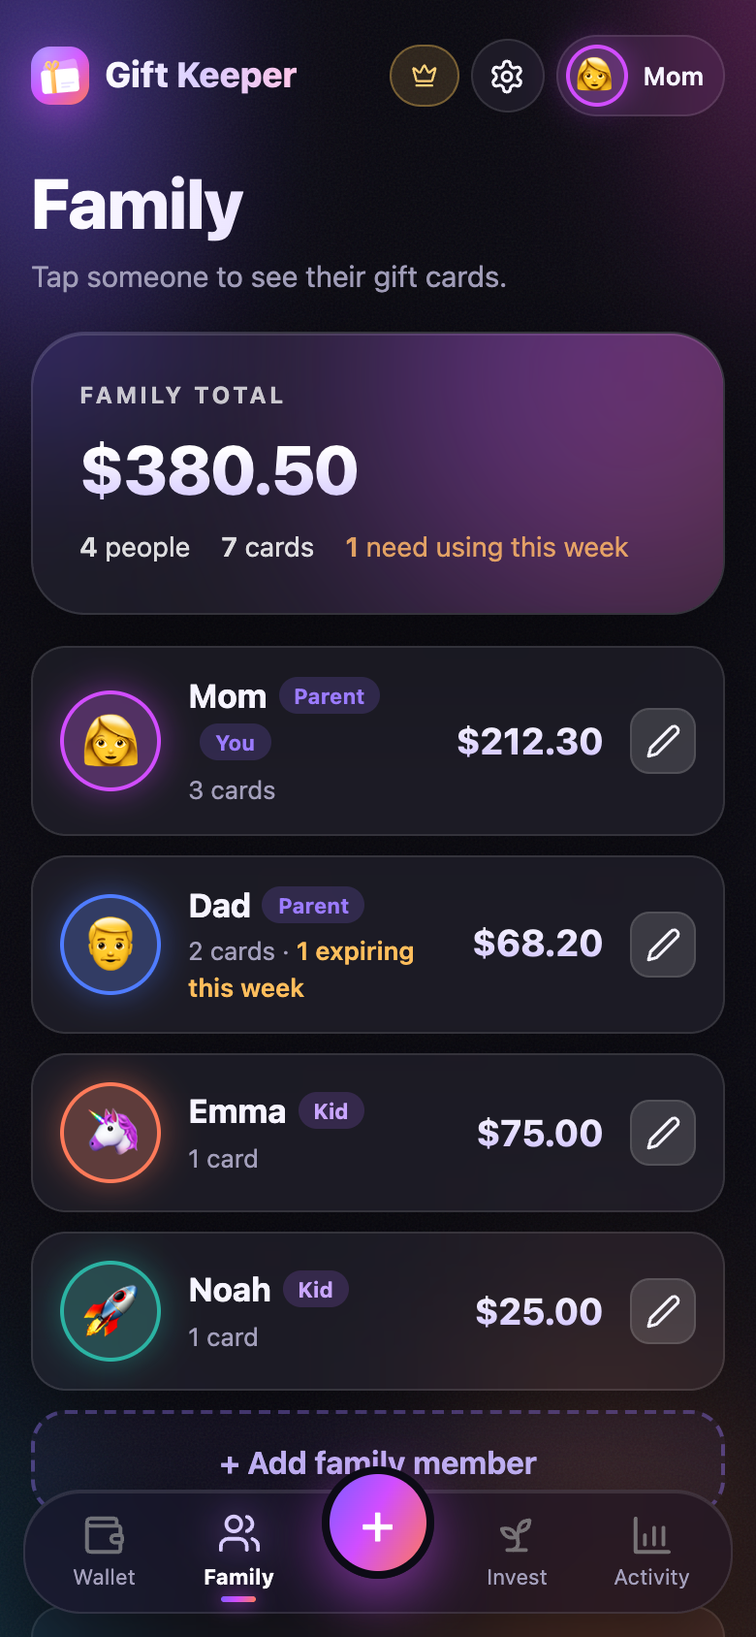
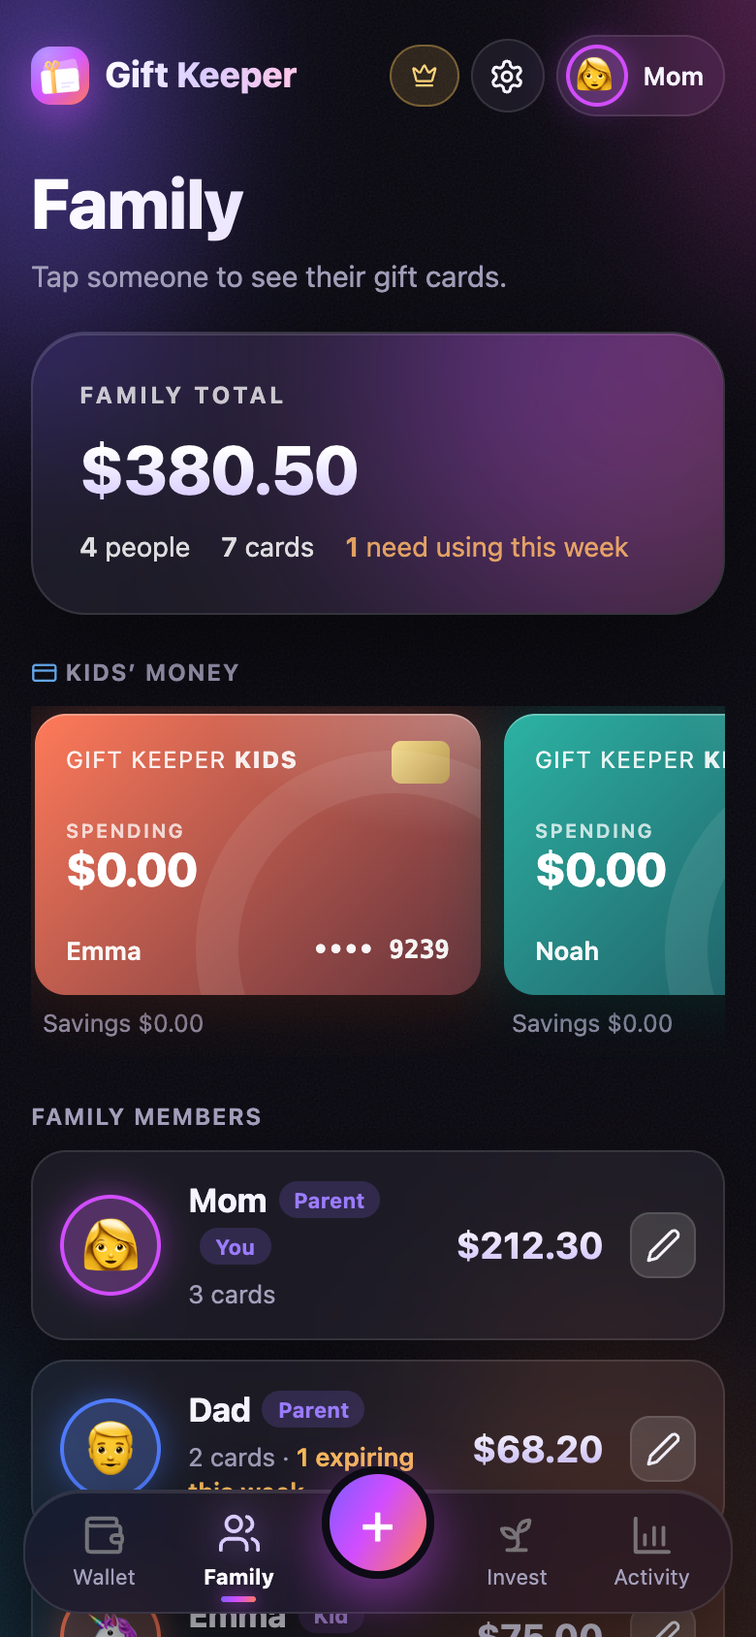
v0.14: Kids' money — Gift Keeper Kids card, spending rules, freeze, allowance, chores, parent-paid interest

diff --git a/app.html b/app.html
@@ -963,6 +963,52 @@
   .calc-total { font: 800 34px var(--round); letter-spacing: -1px; margin: 2px 0 6px; }
   body.privacy #pfTotal, body.privacy .stock-row .px b, body.privacy #pfCash, body.privacy #pfGain b, body.privacy .calc-total { filter: blur(9px); }
 
+  /* Kids' money */
+  .kcards { display: flex; gap: 12px; overflow-x: auto; padding: 4px 2px 10px; scrollbar-width: none; }
+  .kcard-btn { flex: none; width: 230px; background: none; border: 0; padding: 0; cursor: pointer; color: inherit; text-align: left; }
+  .kc-under { display: block; font-size: 12.5px; color: var(--muted); margin: 6px 4px 0; }
+  .kcard { position: relative; aspect-ratio: 1.586; border-radius: 16px; padding: 14px 16px; overflow: hidden; color: #fff;
+    display: flex; flex-direction: column; justify-content: space-between;
+    background: radial-gradient(120% 90% at 100% 0%, rgba(255,255,255,.28), transparent 50%),
+      linear-gradient(135deg, var(--c), color-mix(in srgb, var(--c) 35%, #120c2a));
+    box-shadow: 0 14px 30px rgba(0,0,0,.45), 0 0 34px color-mix(in srgb, var(--c) 35%, transparent), inset 0 1px 0 rgba(255,255,255,.3); }
+  .kcard::after { content: ""; position: absolute; width: 70%; aspect-ratio: 1; right: -25%; bottom: -55%; border-radius: 50%;
+    border: 22px solid rgba(255,255,255,.08); pointer-events: none; }
+  .kc-top { display: flex; justify-content: space-between; align-items: center; }
+  .kc-brand { font-size: 12px; letter-spacing: .06em; text-transform: uppercase; opacity: .9; }
+  .kc-brand b { font-weight: 800; }
+  .kc-chip { width: 30px; height: 22px; border-radius: 5px; background: linear-gradient(135deg, #f3dc8f, #b8954a); }
+  .kc-bal { font: 800 24px var(--round); letter-spacing: -.5px; }
+  .kc-bal small { display: block; font: 600 10px var(--round); letter-spacing: .1em; text-transform: uppercase; opacity: .75; }
+  .kc-bottom { display: flex; justify-content: space-between; font-size: 13px; font-weight: 600; opacity: .95; }
+  .kcard.big { max-width: 360px; margin: 14px auto 4px; padding: 20px; border-radius: 20px; }
+  .kcard.big .kc-bal { font-size: 32px; }
+  .kcard.frozen { filter: saturate(.35); background-image: repeating-linear-gradient(135deg, rgba(200,232,255,.12) 0 10px, transparent 10px 20px), linear-gradient(135deg, var(--c), color-mix(in srgb, var(--c) 35%, #120c2a)); }
+  .kc-frozen { position: absolute; top: 12px; right: 12px; display: inline-flex; align-items: center; gap: 6px; padding: 6px 12px; border-radius: 99px;
+    font: 800 13px var(--round); background: rgba(200,232,255,.9); color: #0b3a5c; z-index: 2; box-shadow: 0 4px 14px rgba(0,0,0,.3); }
+  .kcard.frozen .kc-chip { visibility: hidden; }
+  .kc-frozen .i { width: 15px; height: 15px; }
+  #kidTabs { margin: 4px 0 6px; }
+  .kb-bals { display: grid; grid-template-columns: 1fr 1fr; gap: 10px; margin: 14px 0; }
+  .kb-bals div { border: 1px solid var(--line); background: var(--surface); border-radius: 16px; padding: 12px 14px; }
+  .kb-bals small { display: block; font-size: 12px; color: var(--muted); }
+  .kb-bals b { font: 800 22px var(--round); }
+  .kb-row { display: flex; gap: 8px; margin-top: 10px; align-items: center; }
+  .kb-row input, .kb-row select { flex: 1; min-width: 0; margin: 0; }
+  .kb-row .btn { flex: none; white-space: nowrap; }
+  .kb-small { width: 90px; flex: none; margin: 0; }
+  .kb-rules .setting select { width: auto; margin: 0; }
+  .kb-tx, .chore { display: flex; align-items: center; gap: 10px; padding: 10px 0; border-bottom: 1px solid var(--line); }
+  .kb-tx:last-child, .chore:last-child { border-bottom: 0; }
+  .kb-tx .info, .chore .info { flex: 1; min-width: 0; }
+  .kb-tx .t, .chore .t { font-weight: 650; }
+  .kb-tx .s, .chore .s { font-size: 12.5px; color: var(--muted); }
+  .kb-tx.declined .t { text-decoration: line-through; opacity: .7; }
+  .kb-tx.declined .s { color: #ff8a9a; }
+  .chore.paid .t { opacity: .6; }
+  .chore .del { border: 0; background: none; color: var(--muted); cursor: pointer; display: grid; place-items: center; }
+  body.privacy .kc-bal, body.privacy .kb-bals b, body.privacy .kc-under { filter: blur(9px); }
+
   /* Fixes kept from the redesign */
   .mini { white-space: nowrap; }
   .pm-buttons .btn:disabled { opacity: .55; }
@@ -1058,6 +1104,8 @@
       <div class="amount" id="famTotal">$0.00</div>
       <div class="stats" id="famStats"></div>
     </section>
+    <div id="kidMoney"></div>
+    <div class="section-title">Family members</div>
     <div id="memberList"></div>
     <button class="add-row" id="addMemberBtn">+ Add family member</button>
     <div id="givenSection">
@@ -1173,7 +1221,7 @@
       <div class="list-panel"><button class="setting danger" id="wipeBtn"><svg class="i i-trash" aria-hidden="true"><use href="#i-trash"/></svg>Delete all data</button></div>
     </div>
     <p class="page-sub" style="text-align:center;margin-top:26px;font-size:13px">
-      Gift Keeper v0.13 · Everything is saved only on this device.
+      Gift Keeper v0.14 · Everything is saved only on this device.
     </p>
   </section>
 </div>
@@ -1382,6 +1430,7 @@
       <tr><td>Hide amounts</td><td class="no">—</td><td><svg class="i i-check" aria-hidden="true"><use href="#i-check"/></svg></td><td><svg class="i i-check" aria-hidden="true"><use href="#i-check"/></svg></td></tr>
       <tr><td>Monthly report</td><td class="no">—</td><td><svg class="i i-check" aria-hidden="true"><use href="#i-check"/></svg></td><td><svg class="i i-check" aria-hidden="true"><use href="#i-check"/></svg></td></tr>
       <tr><td>Kids’ savings goals</td><td class="no">—</td><td><svg class="i i-check" aria-hidden="true"><use href="#i-check"/></svg></td><td><svg class="i i-check" aria-hidden="true"><use href="#i-check"/></svg></td></tr>
+      <tr><td>Kids’ card, allowance &amp; chores</td><td class="no">—</td><td><svg class="i i-check" aria-hidden="true"><use href="#i-check"/></svg></td><td><svg class="i i-check" aria-hidden="true"><use href="#i-check"/></svg></td></tr>
       <tr><td>Gift tracker</td><td class="no">—</td><td><svg class="i i-check" aria-hidden="true"><use href="#i-check"/></svg></td><td><svg class="i i-check" aria-hidden="true"><use href="#i-check"/></svg></td></tr>
       <tr class="ultra-start"><td>App lock</td><td class="no">—</td><td class="no">—</td><td><svg class="i i-check" aria-hidden="true"><use href="#i-check"/></svg></td></tr>
       <tr><td>Year in review</td><td class="no">—</td><td class="no">—</td><td><svg class="i i-check" aria-hidden="true"><use href="#i-check"/></svg></td></tr>
@@ -1421,6 +1470,22 @@
     <button class="wrap-close" id="wrapClose" aria-label="Close"><svg class="i i-x" aria-hidden="true"><use href="#i-x"/></svg></button>
     <div id="wrapSlide"></div>
     <div class="wrap-hint">Tap to continue</div>
+  </div>
+</div>
+
+<!-- Kids' money: card, chores, rules -->
+<div class="overlay" id="kidOverlay">
+  <div class="sheet">
+    <div class="sheet-head">
+      <h2 id="kidName">Money</h2>
+      <button type="button" class="x" data-close aria-label="Close"><svg class="i i-x" aria-hidden="true"><use href="#i-x"/></svg></button>
+    </div>
+    <div class="seg" id="kidTabs">
+      <button type="button" data-tab="card">Card</button>
+      <button type="button" data-tab="chores">Chores</button>
+      <button type="button" data-tab="rules">Rules</button>
+    </div>
+    <div id="kidBody"></div>
   </div>
 </div>
 
@@ -2797,6 +2862,7 @@ function renderFamily() {
     ${soon ? `<span class="warn"><b>${soon}</b> need using this week</span>` : ''}`;
 
   renderGiven();
+  renderKidMoney();
   $('memberList').innerHTML = ordered.map(m => {
     const own = cards.filter(c => c.owner === m.id);
     const urgent = own.filter(isUrgent).length;
@@ -3313,6 +3379,218 @@ function exportCsv() {
   toast('Spreadsheet downloaded');
 }
 
+// ---------- Kids' money: a family bank with a kids' card ----------
+// Parents hold the real money; Gift Keeper keeps the books. Each kid has spending and savings,
+// a card parents can freeze and set rules on, a weekly allowance, chores that pay, and
+// interest parents pay on savings every month.
+const KIDBANK_KEY = 'giftKeeper.kidbank.v1';
+const WEEKDAYS = ['Sunday', 'Monday', 'Tuesday', 'Wednesday', 'Thursday', 'Friday', 'Saturday'];
+const SPEND_CATS = ['Shopping', 'Food & Drink', 'Gaming', 'Entertainment', 'Online'];
+
+let kidbank = {};
+try { kidbank = JSON.parse(localStorage.getItem(KIDBANK_KEY)) || {}; } catch {}
+const saveKidbank = () => localStorage.setItem(KIDBANK_KEY, JSON.stringify(kidbank));
+const kb = id => (kidbank[id] ??= {
+  spending: 0, savings: 0, frozen: false, limit: 0, blocked: [],
+  allowance: { amount: 0, day: 5, since: today() }, interest: 0, interestMonth: today().slice(0, 7),
+  chores: [], tx: [], last4: String(1000 + Math.floor(seeded(id) * 9000)),
+});
+const round2 = n => Math.round(n * 100) / 100;
+function kbTx(a, desc, amount, type, extra = {}) {
+  a.tx.push({ id: crypto.randomUUID(), date: today(), desc, amount: round2(amount), type, by: family.current, ...extra });
+}
+const addDays = (date, n) => { const d = new Date(date + 'T00:00'); d.setDate(d.getDate() + n); return d.toISOString().slice(0, 10); };
+
+// Pay any allowance and savings interest that came due since the app was last opened
+function processKidbank() {
+  let changed = false;
+  Object.entries(kidbank).forEach(([id, a]) => {
+    if (!member(id)) return;
+    const al = a.allowance;
+    if (al.amount > 0) {
+      // first payday strictly after the day it was set up
+      let next = addDays(al.since, 1);
+      while (new Date(next + 'T00:00').getDay() !== al.day) next = addDays(next, 1);
+      while (next <= today()) {
+        a.spending = round2(a.spending + al.amount);
+        a.tx.push({ id: crypto.randomUUID(), date: next, desc: 'Weekly allowance', amount: al.amount, type: 'allowance' });
+        al.since = next; next = addDays(next, 7); changed = true;
+      }
+    }
+    while (a.interestMonth < today().slice(0, 7)) {
+      const [y, m] = a.interestMonth.split('-').map(Number);
+      a.interestMonth = m === 12 ? `${y + 1}-01` : `${y}-${String(m + 1).padStart(2, '0')}`;
+      const earned = round2(a.savings * a.interest / 100);
+      if (earned > 0) {
+        a.savings = round2(a.savings + earned);
+        a.tx.push({ id: crypto.randomUUID(), date: a.interestMonth + '-01', desc: `Interest from parents (${a.interest}%)`, amount: earned, type: 'interest' });
+      }
+      changed = true;
+    }
+  });
+  if (changed) saveKidbank();
+}
+
+function kidCard(m, a, big = false) {
+  return `<div class="kcard ${big ? 'big' : ''} ${a.frozen ? 'frozen' : ''}" style="--c:${m.color || '#7c5cff'}">
+    <div class="kc-top"><span class="kc-brand">Gift Keeper <b>Kids</b></span><span class="kc-chip"></span></div>
+    <div class="kc-bal"><small>Spending</small>${money(a.spending)}</div>
+    <div class="kc-bottom"><span>${esc(m.name)}</span><span class="mono">•••• ${a.last4}</span></div>
+    ${a.frozen ? `<div class="kc-frozen">${ic('snow')} Frozen</div>` : ''}
+  </div>`;
+}
+
+function renderKidMoney() {
+  processKidbank();
+  const kids = isParent() ? family.members.filter(m => m.role === 'kid') : [me()];
+  if (!kids.length) {
+    $('kidMoney').innerHTML = isParent() ? `<div class="section-title">${ic('card')} Kids’ money</div>
+      <div class="list-panel"><div class="empty-state" style="padding:18px 6px">Add a kid to the family to give them a Gift Keeper Kids card, allowance and chores.</div></div>` : '';
+    return;
+  }
+  const todo = kids.reduce((n, m) => n + kb(m.id).chores.filter(c => c.status === 'done').length, 0);
+  $('kidMoney').innerHTML = `
+    <div class="section-title">${ic('card')} ${isParent() ? 'Kids’ money' : 'My money'}${isParent() && todo ? ` <span class="pill">${todo} chore${todo === 1 ? '' : 's'} to approve</span>` : ''}</div>
+    <div class="kcards">${kids.map(m => `<button class="kcard-btn" data-kid="${m.id}">${kidCard(m, kb(m.id))}
+      <span class="kc-under">Savings ${money(kb(m.id).savings)}</span></button>`).join('')}</div>`;
+}
+$('kidMoney').onclick = e => {
+  const b = e.target.closest('[data-kid]');
+  if (!b) return;
+  if (!isPremium()) return openPremium('kidcard');
+  openKid(b.dataset.kid);
+};
+
+// ----- the kid's money sheet -----
+let kidId = null, kidTab = 'card';
+function openKid(id) { kidId = id; kidTab = 'card'; renderKid(); open('kidOverlay'); }
+function renderKid() {
+  const m = member(kidId), a = kb(kidId), parent = isParent();
+  if (!m) return;
+  document.querySelectorAll('#kidTabs button').forEach(b => b.classList.toggle('on', b.dataset.tab === kidTab));
+  $('kidName').textContent = m.id === family.current ? 'My money' : `${possessive(m.name)} money`;
+  let html = '';
+  if (kidTab === 'card') {
+    html = `${kidCard(m, a, true)}
+      <div class="kb-bals">
+        <div><small>Spending</small><b>${money(a.spending)}</b></div>
+        <div><small>Savings${a.interest ? ` · earns ${a.interest}%/mo` : ''}</small><b>${money(a.savings)}</b></div>
+      </div>
+      ${parent ? `<div class="kb-row">
+          <input id="kbSend" type="number" min="0" step="1" inputmode="decimal" placeholder="$ amount">
+          <button class="btn primary" data-act="send">${ic('gift')} Send money</button>
+        </div>` : ''}
+      <div class="kb-row">
+        <input id="kbMove" type="number" min="0" step="1" inputmode="decimal" placeholder="$ amount">
+        <button class="btn" data-act="save">To savings</button>
+        <button class="btn" data-act="unsave">To spending</button>
+      </div>
+      <div class="section-title">Pay with the card</div>
+      <div class="kb-row">
+        <input id="kbWhere" placeholder="Where? e.g. Target" style="flex:2">
+        <input id="kbAmt" type="number" min="0" step="0.01" inputmode="decimal" placeholder="$">
+      </div>
+      <div class="kb-row">
+        <select id="kbCat">${SPEND_CATS.map(c => `<option>${c}</option>`).join('')}</select>
+        <button class="btn primary" data-act="pay">${ic('card')} Pay</button>
+      </div>
+      <div class="section-title">Activity</div>
+      <div class="list-panel">${a.tx.length ? [...a.tx].reverse().slice(0, 25).map(t => `
+        <div class="kb-tx ${t.type}"><span class="info"><div class="t">${esc(t.desc)}</div>
+          <div class="s">${dayLabel(t.date)}${t.type === 'declined' ? ` · declined: ${esc(t.reason)}` : ''}</div></span>
+          <span class="amt ${t.type === 'declined' || t.type === 'transfer' ? '' : t.amount >= 0 ? 'pos' : 'neg'}">${t.type === 'transfer' ? money(t.moved) : t.type === 'declined' ? money(Math.abs(t.amount)) : (t.amount >= 0 ? '+' : '−') + money(Math.abs(t.amount))}</span></div>`).join('')
+        : '<div class="empty-state" style="padding:18px 6px">No activity yet.</div>'}</div>`;
+  } else if (kidTab === 'chores') {
+    html = `${parent ? `<div class="kb-row"><input id="choreName" placeholder="New chore, e.g. Empty the dishwasher" style="flex:2">
+        <input id="choreReward" type="number" min="0" step="0.5" inputmode="decimal" placeholder="$"></div>
+      <button class="btn primary" data-act="addChore" style="width:100%">${ic('plus')} Add chore</button>` : ''}
+      <div class="list-panel" style="margin-top:12px">${a.chores.length ? a.chores.map(c => `
+        <div class="chore ${c.status}">
+          <span class="info"><div class="t">${esc(c.name)}</div><div class="s">${money(c.reward)} · ${
+            c.status === 'todo' ? 'To do' : c.status === 'done' ? 'Done — waiting for a parent' : 'Paid'}</div></span>
+          ${c.status === 'todo' ? `<button class="mini" data-act="choreDone" data-id="${c.id}">${ic('check')} Done</button>` : ''}
+          ${c.status === 'done' && parent ? `<button class="mini ok" data-act="chorePay" data-id="${c.id}">Approve &amp; pay</button>` : ''}
+          ${c.status === 'paid' ? `<button class="mini" data-act="choreAgain" data-id="${c.id}">Repeat</button>` : ''}
+          ${parent ? `<button class="del" data-act="choreDel" data-id="${c.id}" aria-label="Delete">${ic('x')}</button>` : ''}
+        </div>`).join('') : `<div class="empty-state" style="padding:18px 6px">${parent ? 'Add chores your kid can do to earn money.' : 'No chores yet — ask a parent!'}</div>`}</div>`;
+  } else {
+    const al = a.allowance;
+    html = !parent ? `<div class="list-panel kb-rules">
+        <div class="setting static"><span>${ic('calendar')}Allowance<span class="sub">${al.amount ? `${money(al.amount)} every ${WEEKDAYS[al.day]}` : 'No allowance set'}</span></span></div>
+        <div class="setting static"><span>${ic('trend')}Savings interest<span class="sub">${a.interest ? `${a.interest}% a month, paid by your parents` : 'Not set'}</span></span></div>
+        <div class="setting static"><span>${ic('shield')}Spending limit<span class="sub">${a.limit ? `Up to ${money(a.limit)} per purchase` : 'No limit'}</span></span></div>
+      </div>` : `
+      <div class="list-panel kb-rules">
+        <div class="setting static"><span>${ic('snow')}Freeze card<span class="sub">${a.frozen ? 'Frozen — every purchase is declined' : 'Stop all purchases right away'}</span></span>
+          <button class="mini ${a.frozen ? 'ok' : ''}" data-act="freeze">${a.frozen ? 'Unfreeze' : 'Freeze'}</button></div>
+        <div class="setting static"><span>${ic('shield')}Limit per purchase<span class="sub">0 = no limit</span></span>
+          <input id="kbLimit" class="kb-small" type="number" min="0" step="1" value="${a.limit || ''}" placeholder="$"></div>
+        <div class="setting static"><span>${ic('ban')}Blocked stores<span class="sub">Purchases here are declined</span></span></div>
+        <div class="quick-amts" style="margin:0 0 12px">${SPEND_CATS.map(c =>
+          `<button type="button" class="chip-btn ${a.blocked.includes(c) ? 'on' : ''}" data-act="block" data-cat="${esc(c)}">${esc(c)}</button>`).join('')}</div>
+      </div>
+      <div class="section-title">Allowance</div>
+      <div class="list-panel kb-rules">
+        <div class="setting static"><span>${ic('calendar')}Weekly amount<span class="sub">Paid automatically into spending</span></span>
+          <input id="kbAllow" class="kb-small" type="number" min="0" step="1" value="${al.amount || ''}" placeholder="$"></div>
+        <div class="setting static"><span>${ic('clock')}Payday</span>
+          <select id="kbDay">${WEEKDAYS.map((d, i) => `<option value="${i}" ${i === al.day ? 'selected' : ''}>${d}</option>`).join('')}</select></div>
+      </div>
+      <div class="section-title">Savings interest</div>
+      <div class="list-panel kb-rules">
+        <div class="setting static"><span>${ic('trend')}Parent-paid interest<span class="sub">Paid on the 1st of each month — teaches saving pays off</span></span>
+          <select id="kbInterest">${[0, 1, 2, 3, 5, 10].map(r => `<option value="${r}" ${r === a.interest ? 'selected' : ''}>${r ? r + '% a month' : 'Off'}</option>`).join('')}</select></div>
+      </div>
+      <button class="btn primary" data-act="saveRules" style="width:100%;margin-top:14px">Save rules</button>`;
+  }
+  $('kidBody').innerHTML = html;
+}
+$('kidTabs').onclick = e => { const b = e.target.closest('[data-tab]'); if (b) { kidTab = b.dataset.tab; renderKid(); } };
+$('kidBody').onclick = e => {
+  const b = e.target.closest('[data-act]');
+  if (!b) return;
+  const a = kb(kidId), m = member(kidId), act = b.dataset.act, num = id => round2(Number($(id)?.value) || 0);
+  const done = msg => { saveKidbank(); renderKid(); render(); if (msg) toast(msg); };
+  if (act === 'send') {
+    const v = num('kbSend'); if (!(v > 0)) return toast('Enter an amount');
+    a.spending = round2(a.spending + v); kbTx(a, `Money from ${me().name}`, v, 'deposit'); done(`Sent ${money(v)} to ${m.name}`); confetti();
+  } else if (act === 'save' || act === 'unsave') {
+    const v = num('kbMove'), from = act === 'save' ? 'spending' : 'savings', to = act === 'save' ? 'savings' : 'spending';
+    if (!(v > 0)) return toast('Enter an amount');
+    if (v > a[from]) return toast(`Only ${money(a[from])} in ${from}`);
+    a[from] = round2(a[from] - v); a[to] = round2(a[to] + v);
+    kbTx(a, act === 'save' ? 'Moved to savings' : 'Moved to spending', 0, 'transfer', { moved: v });
+    done(act === 'save' ? `Saved ${money(v)}` : `Moved ${money(v)} to spending`);
+  } else if (act === 'pay') {
+    const where = $('kbWhere').value.trim() || 'Purchase', v = num('kbAmt'), cat = $('kbCat').value;
+    if (!(v > 0)) return toast('Enter an amount');
+    const reason = a.frozen ? 'card is frozen' : a.limit && v > a.limit ? `over the ${money(a.limit)} limit`
+      : a.blocked.includes(cat) ? `${cat} is blocked` : v > a.spending ? 'not enough money' : '';
+    if (reason) { kbTx(a, `${where} (${cat})`, -v, 'declined', { reason }); return done(`Declined — ${reason}`); }
+    a.spending = round2(a.spending - v); kbTx(a, `${where} (${cat})`, -v, 'purchase'); done(`Paid ${money(v)} at ${where}`);
+  } else if (act === 'freeze') {
+    a.frozen = !a.frozen; done(a.frozen ? `${m.name}’s card is frozen` : 'Card unfrozen');
+  } else if (act === 'block') {
+    const c = b.dataset.cat; a.blocked = a.blocked.includes(c) ? a.blocked.filter(x => x !== c) : [...a.blocked, c]; saveKidbank(); b.classList.toggle('on');   // no re-render, so typed rules aren't lost
+  } else if (act === 'saveRules') {
+    a.limit = num('kbLimit');
+    const amount = num('kbAllow'), day = Number($('kbDay').value);
+    if (amount !== a.allowance.amount || day !== a.allowance.day) a.allowance = { amount, day, since: today() };
+    a.interest = Number($('kbInterest').value);
+    done('Rules saved');
+  } else if (act === 'addChore') {
+    const name = $('choreName').value.trim(), reward = num('choreReward');
+    if (!name || !(reward > 0)) return toast('Add a chore and a reward');
+    a.chores.push({ id: crypto.randomUUID(), name, reward, status: 'todo' }); done('Chore added');
+  } else if (act.startsWith('chore')) {
+    const c = a.chores.find(x => x.id === b.dataset.id); if (!c) return;
+    if (act === 'choreDone') { c.status = 'done'; done(isParent() ? 'Marked done' : 'Nice work! A parent will check it'); }
+    if (act === 'chorePay') { c.status = 'paid'; a.spending = round2(a.spending + c.reward); kbTx(a, `Chore: ${c.name}`, c.reward, 'chore'); done(`Paid ${money(c.reward)} for ${c.name}`); confetti(); }
+    if (act === 'choreAgain') { c.status = 'todo'; done(); }
+    if (act === 'choreDel') { a.chores = a.chores.filter(x => x !== c); done(); }
+  }
+};
+
 // ---------- Invest page: practice investing for the family ----------
 // Pretend money and practice prices (a seeded random walk that moves once a day), so kids can
 // learn how investing works. Kids' trades wait for a parent to approve them.
@@ -3681,6 +3959,7 @@ const PREMIUM_WHY = {
   privacy: 'Blur your balances with one tap when someone’s looking over your shoulder.',
   report: 'A report every month: what you spent, new cards, your top store, and what expires next.',
   goals: 'Give each kid a savings goal — their gift card money fills the bar as it grows.',
+  kidcard: 'Give each kid a Gift Keeper Kids card with allowance, chores, savings interest and spending rules you control.',
   given: 'Remember every gift card you give — who, what and when — so you never repeat a gift.',
   ultra: 'The very best of Gift Keeper — locked tight and made for the whole family.',
   lock: 'Lock Gift Keeper with a passcode so only you can open your card numbers and PINs.',
@@ -3783,7 +4062,7 @@ $('settingsReminders').onclick = e => {
 
 $('exportBtn').onclick = () => {
   if (!isPremium()) return openPremium('backup');
-  const data = { app: 'gift-keeper', version: 1, exported: new Date().toISOString(), cards, family, given, invest };
+  const data = { app: 'gift-keeper', version: 1, exported: new Date().toISOString(), cards, family, given, invest, kidbank };
   const a = document.createElement('a');
   a.href = URL.createObjectURL(new Blob([JSON.stringify(data, null, 2)], { type: 'application/json' }));
   a.download = `gift-keeper-backup-${today()}.json`;
@@ -3803,6 +4082,7 @@ $('importFile').onchange = async () => {
     cards = data.cards;
     given = Array.isArray(data.given) ? data.given : [];
     saveGiven();
+    if (data.kidbank) { kidbank = data.kidbank; saveKidbank(); }
     if (data.invest) { invest = { accounts: {}, requests: [], ...data.invest }; saveInvestData(); }
     family = data.family;
     save(); saveFamily();
@@ -3815,7 +4095,7 @@ $('importFile').onchange = async () => {
 };
 $('wipeBtn').onclick = () => {
   if (!confirm('Delete ALL gift cards and family members from this device? This can’t be undone.')) return;
-  [STORAGE_KEY, FAMILY_KEY, NOTIFY_KEY, GIVEN_KEY, SETTINGS_KEY, PREMIUM_KEY, INVEST_KEY].forEach(k => localStorage.removeItem(k));
+  [STORAGE_KEY, FAMILY_KEY, NOTIFY_KEY, GIVEN_KEY, SETTINGS_KEY, PREMIUM_KEY, INVEST_KEY, KIDBANK_KEY].forEach(k => localStorage.removeItem(k));
   location.reload();
 };
 

diff --git a/index.html b/index.html
@@ -230,6 +230,7 @@
       <div class="feature reveal"><div class="ic"><svg class="i" aria-hidden="true"><use href="#i-calendar"/></svg></div><h3>Monthly report</h3><p>What you spent, your top store, and which cards expire next month.</p></div>
       <div class="feature reveal"><div class="ic"><svg class="i" aria-hidden="true"><use href="#i-palette"/></svg></div><h3>Make it yours</h3><p>Card colors and themes — Birthday, Holiday, Galaxy, Gold and more. Kids love it.</p></div>
       <div class="feature reveal"><div class="ic"><svg class="i" aria-hidden="true"><path d="M7 20h10"/><path d="M10 20c5.5-2.5.8-6.4 3-10"/><path d="M9.5 9.4c1.1.8 1.8 2.2 2.3 3.7-2 .4-3.5.4-4.8-.3-1.2-.6-2.3-1.9-3-4.2 2.8-.5 4.4 0 5.5.8z"/><path d="M14.1 6a7 7 0 0 0-1.1 4c1.9-.1 3.3-.6 4.3-1.4 1-1 1.6-2.3 1.7-4.6-2.7.1-4 1-4.9 2z"/></svg></div><h3>Kids practice investing</h3><p>Kids pick companies they know — Disney, Nike, Roblox — with practice money. Parents approve every trade.</p></div>
+      <div class="feature reveal"><div class="ic"><svg class="i" aria-hidden="true"><rect x="2" y="5" width="20" height="14" rx="2"/><path d="M2 10h20"/></svg></div><h3>Kids’ card &amp; allowance</h3><p>A card for each kid with spending rules, a freeze button, weekly allowance, chores that pay and parent-paid interest on savings.</p></div>
     </div>
   </div>
 </section>
